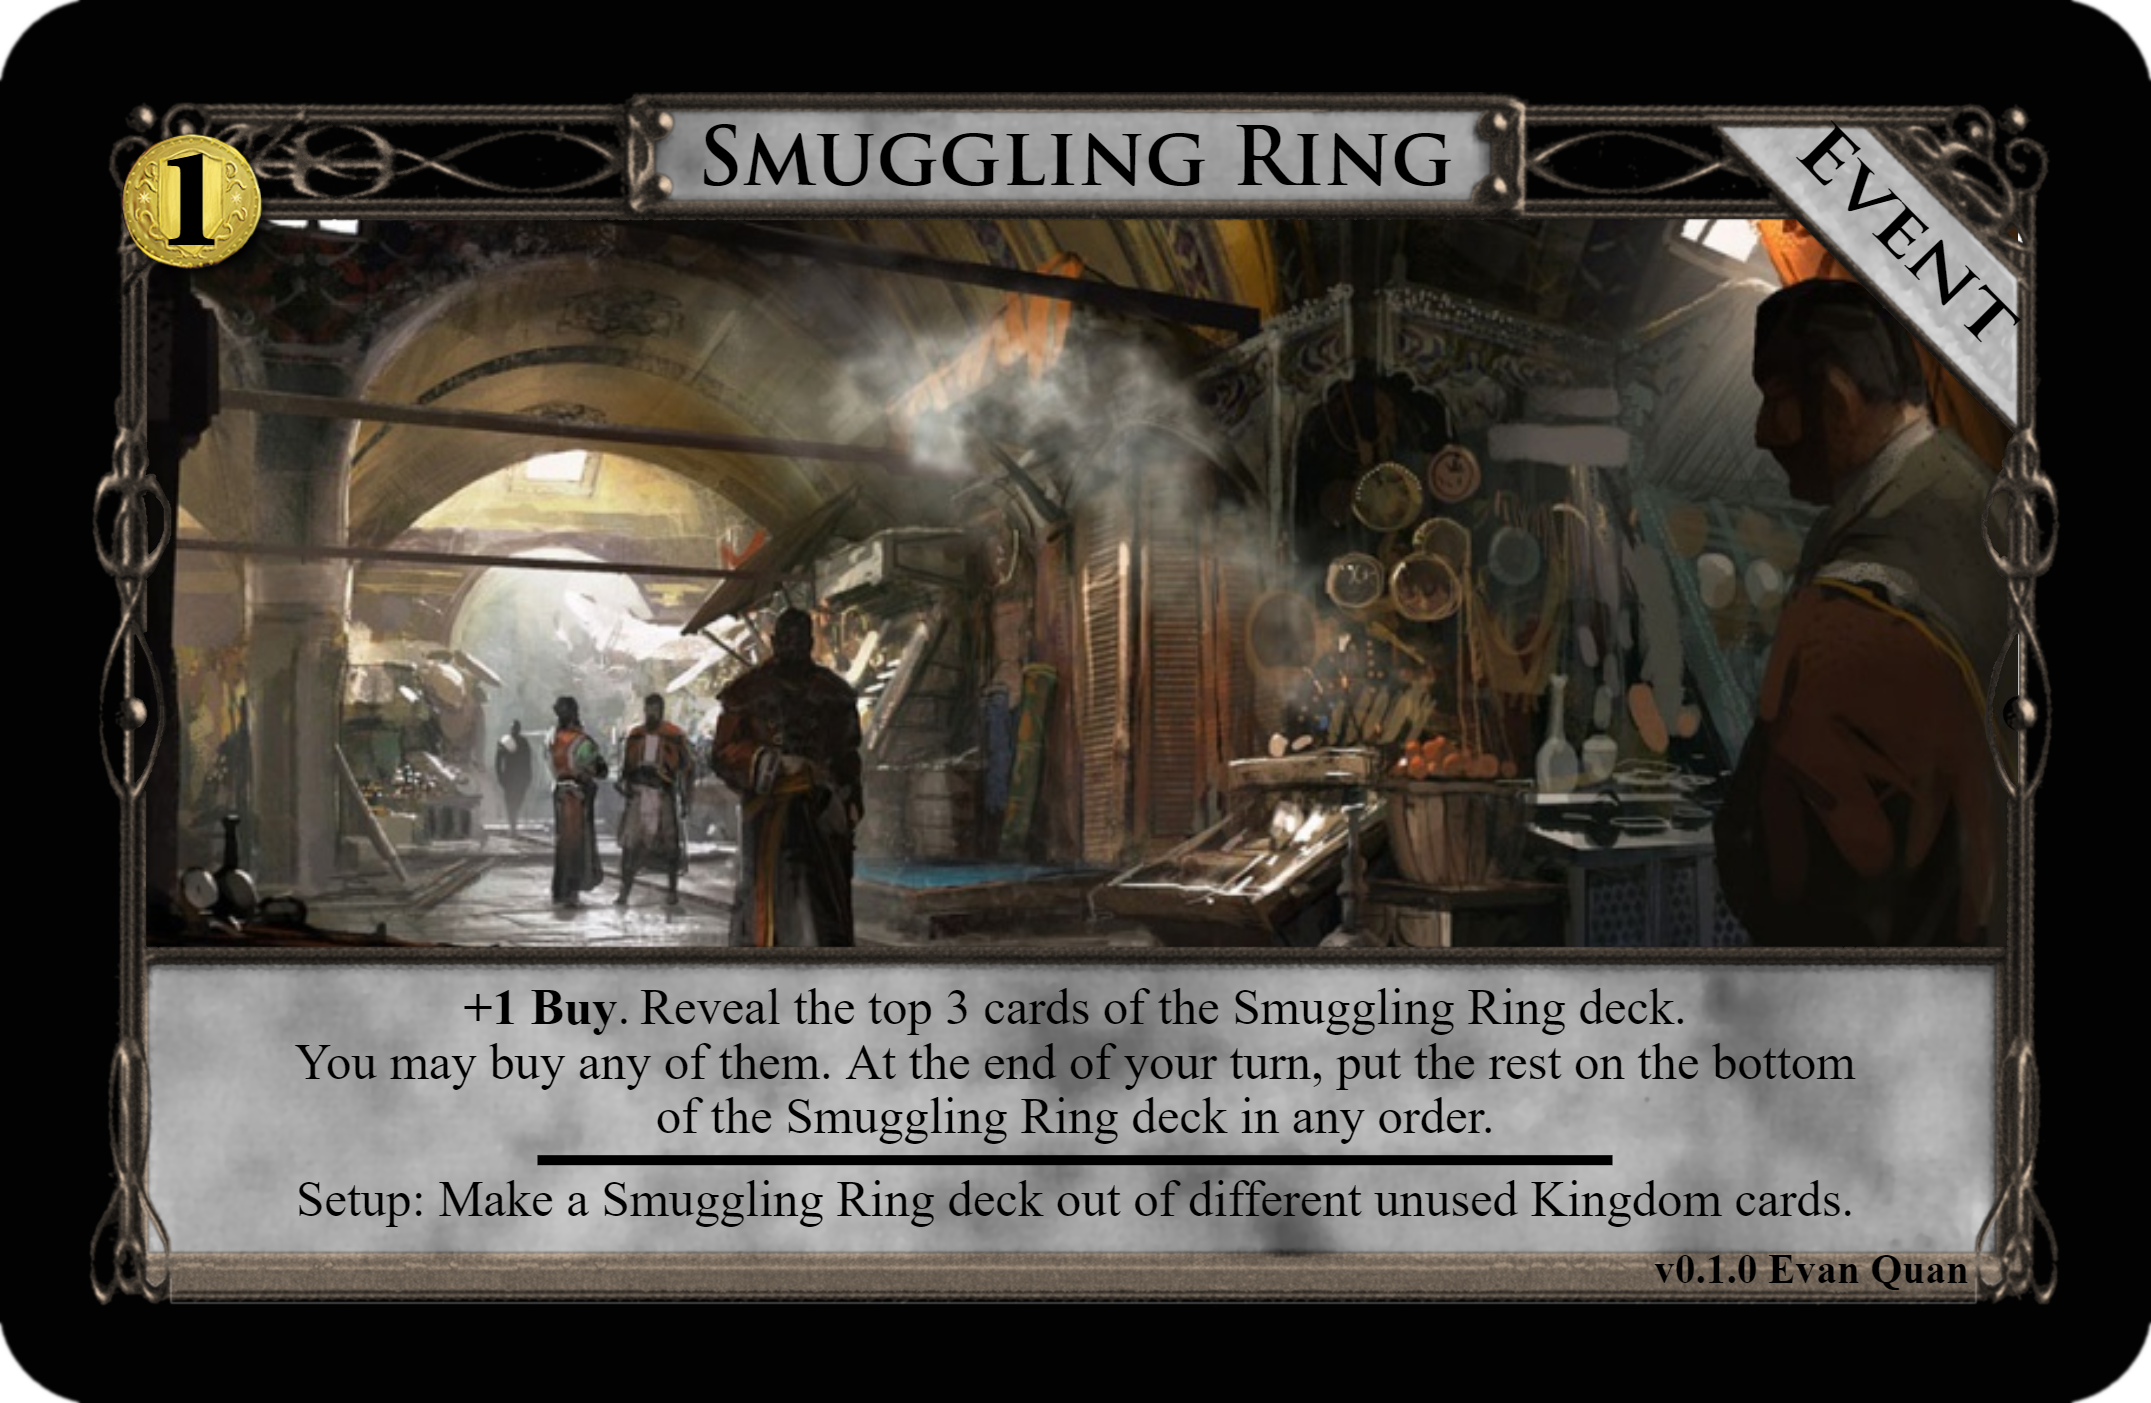
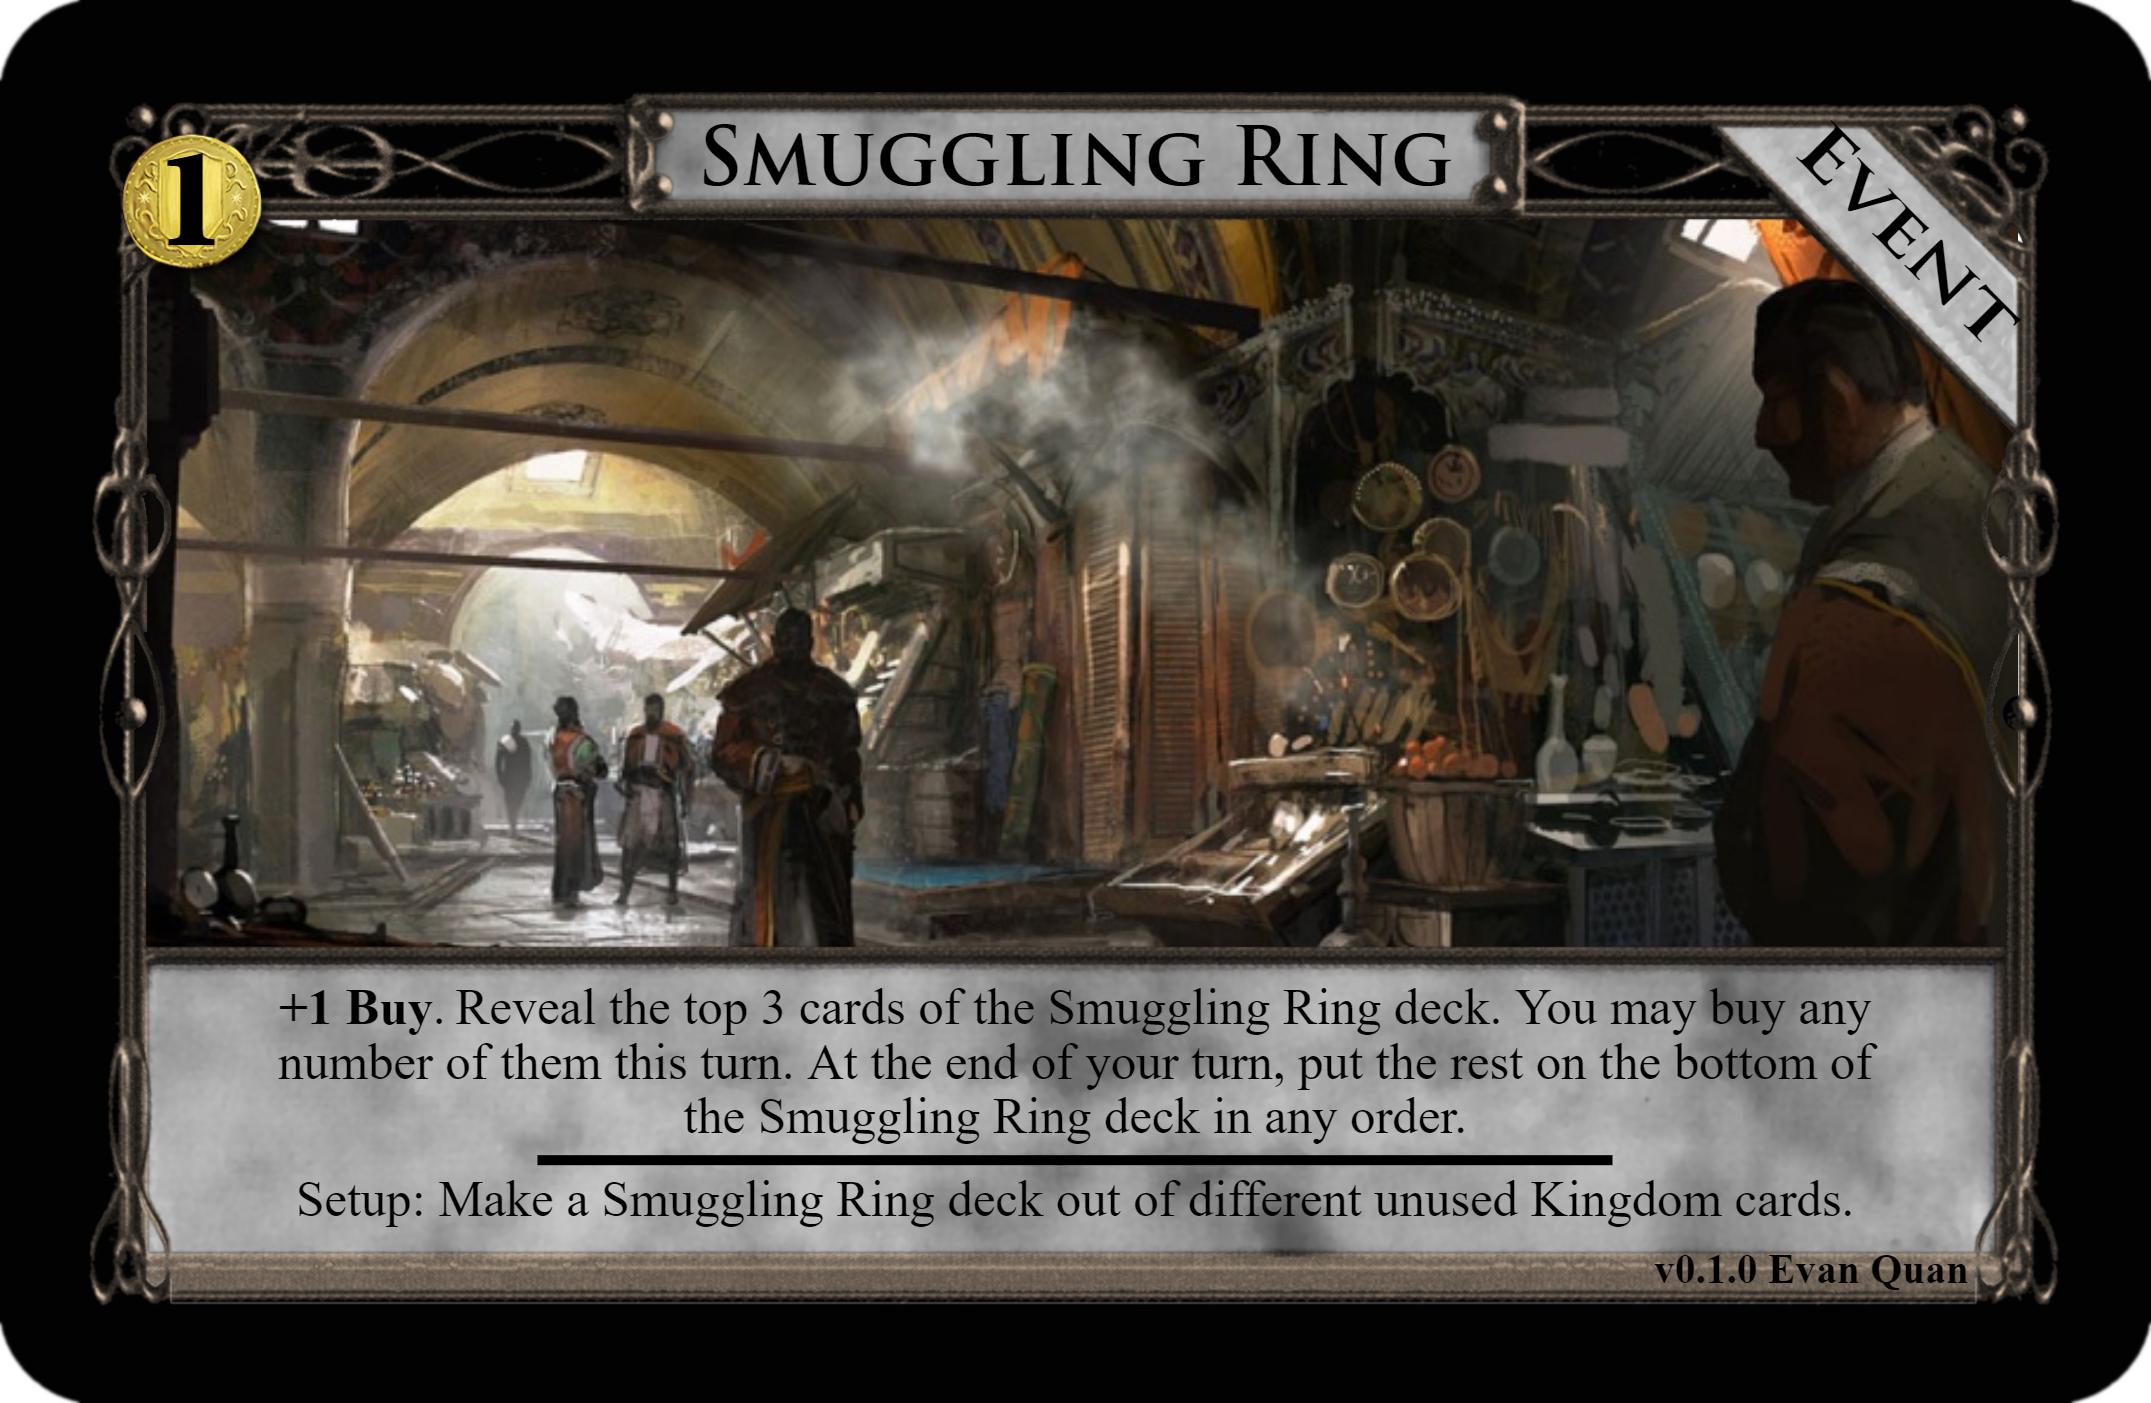
Update phrasing. Add credits.

Changed region(s): [[0.1246, 0.7049, 0.8722, 0.8275]]

diff --git a/Event/SmugglingRing.md b/Event/SmugglingRing.md
@@ -2,6 +2,14 @@
 
 ![v0.1.0][^v0.1.0]
 
+---
+
+[Card][^Card]
+
+[Illustration][^Illustration]
+
+---
+
 Event equivalent of [Black Market][^Black Market].
 
 ## FAQ
@@ -47,3 +55,5 @@ and adds an extra level of decision making during the Buy phase.
 [^Trader]: http://wiki.dominionstrategy.com/index.php/Trader
 [^The Underground v0.1.0]: /Project/Images/The_Underground_v0.1.0.png
 [^v0.1.0]: /Event/Images/Smuggling_Ring_v0.1.0.png
+[^Card]: https://shardofhonor.github.io/dominion-card-generator/?title=Smuggling%20Ring&description=%2B1%20Buy.%20Reveal%20the%20top%203%20cards%20of%20the%20Smuggling%20Ring%20deck.%20You%20may%20buy%20any%20number%20of%20them%20this%20turn.%20At%20the%20end%20of%20your%20turn%2C%20put%20the%20rest%20on%20the%20bottom%20of%20the%20Smuggling%20Ring%20deck%20in%20any%20order.%0A-%0ASetup%3A%20Make%20a%20Smuggling%20Ring%20deck%20out%20of%20different%20unused%20Kingdom%20cards.&type=Event&credit=&creator=v0.1.0%20Evan%20Quan&price=%241&preview=&type2=&color2split=1&boldkeys=&picture-x=0&picture-y=0&picture-zoom=1&picture=https%3A%2F%2F2.bp.blogspot.com%2F-Rc2C1VXKuug%2FV1a2tg_BJ5I%2FAAAAAAAACXc%2FmJVzC2l2rT0AYRFK8RPm_jMqTRp3BIjoQCLcB%2Fs1600%2Fblackmarket.jpg&expansion=&custom-icon=&color0=0&color1=0&size=1
+[^Illustration]: https://2.bp.blogspot.com/-Rc2C1VXKuug/V1a2tg_BJ5I/AAAAAAAACXc/mJVzC2l2rT0AYRFK8RPm_jMqTRp3BIjoQCLcB/s1600/blackmarket.jpg
